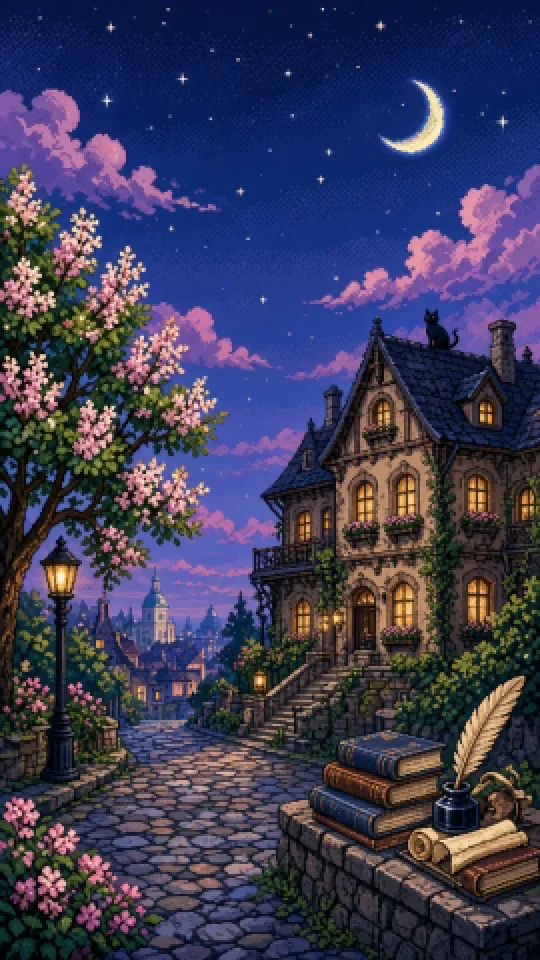
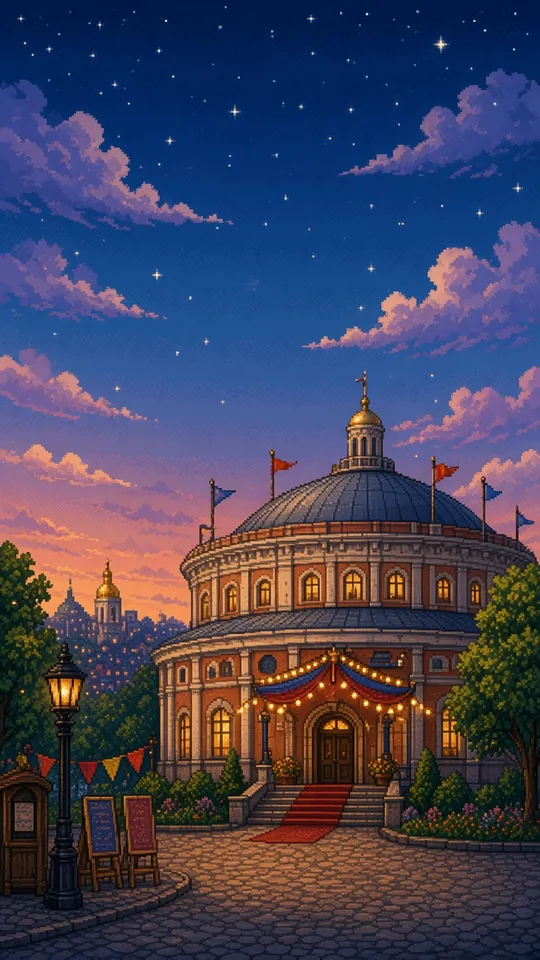
Нові фони: орче селище в Суджі й Київський цирк
Суджа — багно, халупи й дим замість соняхів. Київ — круглий цирк увечері замість булгаковської вулиці.

diff --git a/index.html b/index.html
@@ -424,8 +424,8 @@ const ZONES=[
   {from:0,name:'Суми · 2022',cloth:'#efe6d3',labels:['ХТО ЦЕ ВЗАГАЛІ?','КВНЩИК','НЕ СМІШНО','ВИСКОЧКА','ПРОВІНЦІАЛ','НОНЕЙМ','ЖЕБРАК ІЗ СУМ','СУМСЬКИЙ ЖЕБРАК','ПРИКОРДОННИЙ','КВН-ЩИНА','ДЯДЯ, ВИ ХТО?'],springs:['СКАНДАЛ!','ВІРУСНИЙ ХЕЙТ','ПЕТИЦІЯ НА 25 000']},
   {from:60000,name:'Львів · 2022',cloth:'#e8e0ee',labels:['НЕ СМІШНО!','ПЕРЕЙДИ НА МОВУ','ОБРАЗИВ ЛЬВІВ','СХІДНЯК','МАЛОРОС','ЗАЙДА','МОВНИЙ ЗРАДНИК','СУРЖИКОВИЙ','ДОКОНАНИЙ РАБ','ЯЗИЧІЄ','ПЕРЕХОДЬ НА МОВУ!','ЧОМУ НЕ ДЕРЖАВНОЮ?','МОВНИЙ ОМБУДСМЕН ЇДЕ','ПОВЕРНИСЬ НА СХІД','НЕ ПО-НАШОМУ'],springs:['СКАНДАЛ!','ГУЧНИЙ КЕНСЕЛ','ЛИСТ У МІНКУЛЬТ','ЗАБЛОКУВАТИ!']},
   {from:140000,name:'Князь Володимир',cloth:'#f0e0d6',labels:['ОБРАЗИВ КНЯЗЯ','БЛЮЗНІР','ЗРАДНИК','ВОРОГ ІСТОРІЇ','КОЩУНСТВО','ПЛЮЄ В ІСТОРІЮ','ОСКВЕРНИВ СВЯТИНЮ','ЗНЕВАЖИВ ПРЕДКІВ','ЗАБОРОНИТИ КОНЦЕРТ','ЯК ВИ СМІЄТЕ?!'],springs:['СБУ, ПЕРЕВІРТЕ!','ПОЗБАВИТИ ГРОМАДЯНСТВА','ВИСЛАТИ З КРАЇНИ!','ВНЕСТИ В БАЗУ!']},
-  {from:240000,name:'Суджа · 2024',cloth:'#e2e8d1',labels:['ХАЙП НА ВІЙНІ','ВОЄННИЙ ТУРИСТ','ПІАРНИК','ФОТО В СУДЖІ','ПІАР НА КРОВІ','ДЕШЕВИЙ ХАЙП','ТУРИСТ У ШОЛОМІ','ЛАЙКИ НА ВІЙНІ','БЛОГЕР НА ФРОНТІ','НАВІЩО ТИ ТАМ?'],springs:['СКАНДАЛ!','ТЕРМІНОВО: ЗРАДА','ГУЧНЕ РОЗСЛІДУВАННЯ']},
-  {from:370000,name:'Київ · 2026',cloth:'#dce3ee',labels:['ЗА БУЛГАКОВА?!','РОСІЙСЬКІ НАРАТИВИ','ЯК АЛХІМ','ПРОРОСІЙСЬКИЙ','КОЛАБОРАНТ','РУСЬКІЙ МІР','МАЙСТЕР І МАРГАРИТА','ОДЕСЬКИЙ ПАРОХОД','ЛЮБИТЕЛЬ БУЛГАКОВА','СПОЧАТКУ КУЛЬТУРА!','ВИЗНАЙ ПОМИЛКУ'],springs:['РОЗСЛІДУВАННЯ','ВСЕ, ВІН ЗАКІНЧИВСЯ','ТРЕД НА 300 ЛАЙКІВ']},
+  {from:240000,name:'Суджа · 2024',cloth:'#e4d4c4',labels:['ХАЙП НА ВІЙНІ','ВОЄННИЙ ТУРИСТ','ПІАРНИК','ФОТО В СУДЖІ','ПІАР НА КРОВІ','ДЕШЕВИЙ ХАЙП','ТУРИСТ У ШОЛОМІ','ЛАЙКИ НА ВІЙНІ','БЛОГЕР НА ФРОНТІ','НАВІЩО ТИ ТАМ?'],springs:['СКАНДАЛ!','ТЕРМІНОВО: ЗРАДА','ГУЧНЕ РОЗСЛІДУВАННЯ']},
+  {from:370000,name:'Київ · 2026',cloth:'#e8dce6',labels:['ЗА БУЛГАКОВА?!','РОСІЙСЬКІ НАРАТИВИ','ЯК АЛХІМ','ПРОРОСІЙСЬКИЙ','КОЛАБОРАНТ','РУСЬКІЙ МІР','МАЙСТЕР І МАРГАРИТА','ОДЕСЬКИЙ ПАРОХОД','ЛЮБИТЕЛЬ БУЛГАКОВА','СПОЧАТКУ КУЛЬТУРА!','ВИЗНАЙ ПОМИЛКУ'],springs:['РОЗСЛІДУВАННЯ','ВСЕ, ВІН ЗАКІНЧИВСЯ','ТРЕД НА 300 ЛАЙКІВ']},
   {from:530000,name:'Тур «Одіссея» · 2026',cloth:'#f1e1c6',labels:['ВІДМІНИТИ!','АГЕНТ КРЕМЛЯ','ІПСО','ЗРАДНИК','НЕ ПУСКАТИ!','ВОРОГ НАРОДУ','ЗАЛ НЕ ДАВАТИ','ПОВЕРНІТЬ КВИТКИ','НЕ ПУСКАТИ В МІСТО','ПОЗА ЗАКОНОМ'],springs:['СКАНДАЛ!','БОЙКОТ!','ЗІРВАТИ ТУР!'],cities:true},
   {from:750000,name:'Стадіон',cloth:'#f3ead9',labels:[],springs:['СКАНДАЛ!','СБУ, ПЕРЕВІРТЕ!','РОЗСЛІДУВАННЯ','ВСЕ, ВІН ЗАКІНЧИВСЯ','БОЙКОТ!']}
 ];
